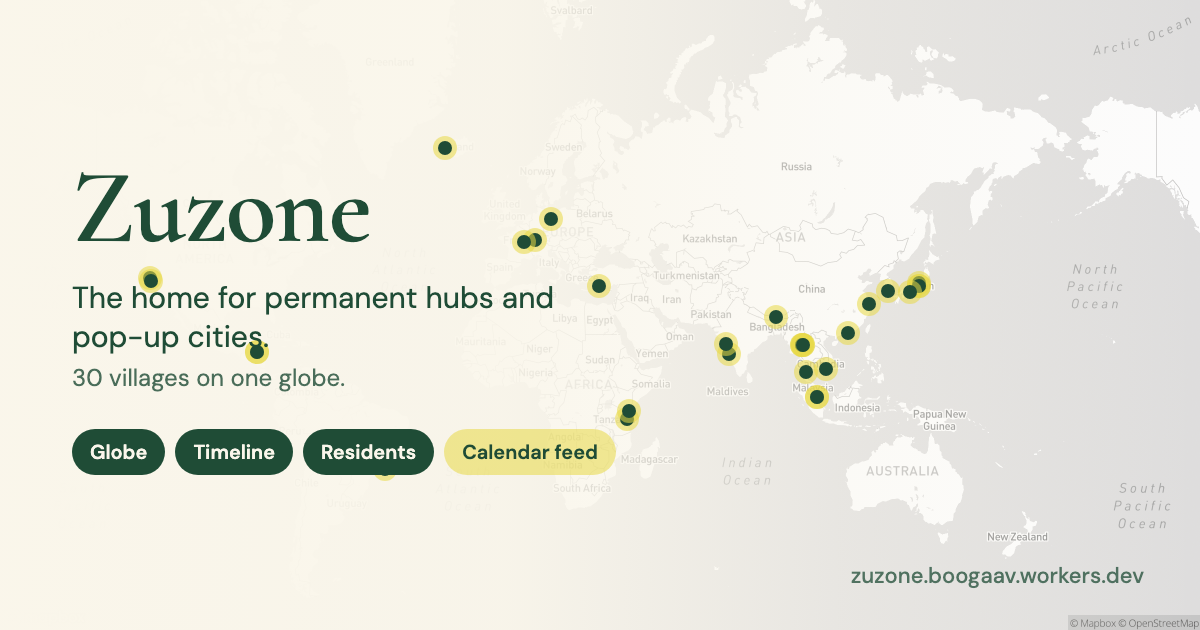
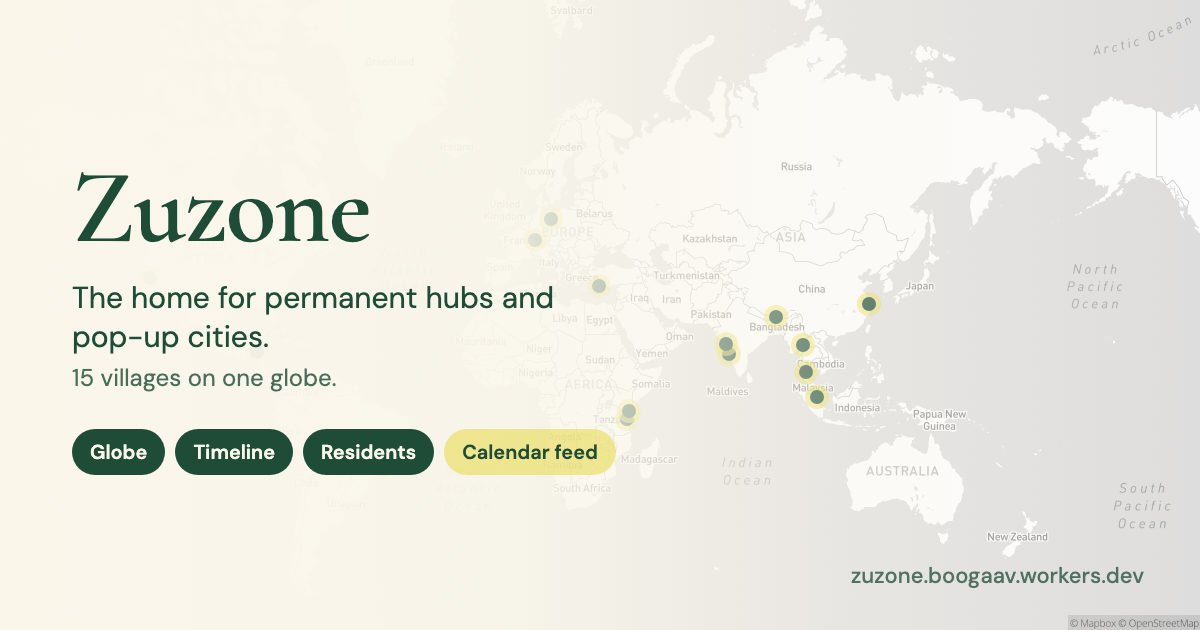
Curate the directory: hide villages not on the owner's list
- migration 20260914120000: villages.hidden (default false); 15 villages stay public,
  15 are hidden, none deleted
- useVillages drops hidden rows, so the map, Gantt, list and village pages follow
- a hidden or unknown village URL now redirects home instead of silently showing
  whichever village loaded first
- worker fetchVillages drops hidden rows: /api/villages.json, /calendar.ics, OG tags
- ZuThread filters the stored feed on every read (no paid refresh needed) and
  re-attributes shared handles, e.g. The Mu's posts now credit muShanghai
- Why Zuzalu timeline links only to villages that are still public
- scripts/og-card/build.mjs: share card generator now lives in the repo, reads the
  visible villages, keeps pins under the veil, and refuses to overwrite og.png with a
  failed render

diff --git a/src/components/why/DossierSection.tsx b/src/components/why/DossierSection.tsx
@@ -18,10 +18,11 @@ const KIND_COLOR: Record<string, string> = {
   prelude: "bg-muted-foreground/50",
 };
 
-const Segs = ({ segs }: { segs: TimelineSeg[] }) => (
+/** Village links render only while that village is public; hidden ones read as plain text. */
+const Segs = ({ segs, visibleIds }: { segs: TimelineSeg[]; visibleIds: Set<string> | null }) => (
   <>
     {segs.map((s, i) =>
-      s.href ? (
+      s.href && visibleIds?.has(s.href.replace(/^\//, "")) ? (
         <Link key={i} to={s.href} className="font-medium text-primary underline-offset-2 hover:underline" title="Open on the Zuzone map">{s.t}</Link>
       ) : (
         <span key={i}>{s.t}</span>
@@ -89,7 +90,7 @@ const Chapter = ({ ch, onOpen }: { ch: DossierChapter; onOpen: (p: DossierPhoto)
   </section>
 );
 
-export const DossierSection = () => {
+export const DossierSection = ({ visibleIds = null }: { visibleIds?: Set<string> | null }) => {
   const [open, setOpen] = useState<DossierPhoto | null>(null);
   return (
     <div id="dossier" className="scroll-mt-20">
@@ -127,7 +128,7 @@ export const DossierSection = () => {
                   <span className={`mt-1 h-3 w-[3px] shrink-0 rounded ${KIND_COLOR[r.kind] || "bg-muted-foreground/50"}`} />
                   {r.when}
                 </span>
-                <span className={`col-span-2 text-sm leading-relaxed sm:col-span-1 ${["montenegro", "istanbul", "chiangmai"].includes(r.kind) ? "font-medium" : ""}`}><Segs segs={r.what} /></span>
+                <span className={`col-span-2 text-sm leading-relaxed sm:col-span-1 ${["montenegro", "istanbul", "chiangmai"].includes(r.kind) ? "font-medium" : ""}`}><Segs segs={r.what} visibleIds={visibleIds} /></span>
               </li>
             ))}
           </ol>

diff --git a/src/pages/WhyZuzalu.tsx b/src/pages/WhyZuzalu.tsx
@@ -269,12 +269,13 @@ const Quote = ({ q, ctx }: { q: string; ctx: string }) => (
 
 const WhyZuzalu = () => {
   const [villageCount, setVillageCount] = useState<number | null>(null);
+  const [visibleIds, setVisibleIds] = useState<Set<string> | null>(null);
   useEffect(() => {
     document.title = "Why Zuzalu — Zuzone";
     const target = window.location.hash ? document.querySelector(window.location.hash) : null;
     if (target) setTimeout(() => target.scrollIntoView({ behavior: "auto" }), 50);
     else window.scrollTo(0, 0);
-    fetch(`${PUBLIC_SITE_URL}/api/villages.json`).then((r) => r.json()).then((d) => setVillageCount(d.count)).catch(() => {});
+    fetch(`${PUBLIC_SITE_URL}/api/villages.json`).then((r) => r.json()).then((d) => { setVillageCount(d.count); setVisibleIds(new Set(d.villages.map((v: { id: string }) => v.id))); }).catch(() => {});
     return () => { document.title = "Zuzone"; };
   }, []);
   const mapUrl = useMemo(tribeMapUrl, []);
@@ -380,7 +381,7 @@ const WhyZuzalu = () => {
         <div className="mt-4"><Quote q="Would 'Zuzaluism' meet the same fate?" ctx="on movements that grow fast and then plateau as niches" /></div>
       </Section>
 
-      <DossierSection />
+      <DossierSection visibleIds={visibleIds} />
 
       <section className="border-t border-border bg-card/60">
         <div className="mx-auto max-w-3xl px-4 py-12 sm:py-16">

diff --git a/src/components/InteractiveMap.tsx b/src/components/InteractiveMap.tsx
@@ -125,10 +125,13 @@ export const InteractiveMap = ({ mapboxToken, initialVillageId, initialCategory 
           setActiveVillage(targetVillage);
           return;
         }
+        // Hidden or unknown village: don't show a different village under this URL
+        navigate("/", { replace: true });
+        return;
       }
       setActiveVillage(villages[0]);
     }
-  }, [villages, activeVillage, initialVillageId]);
+  }, [villages, activeVillage, initialVillageId, navigate]);
 
   // Fly to active village when map is ready (for village-specific routes)
   useEffect(() => {

diff --git a/src/hooks/useVillages.ts b/src/hooks/useVillages.ts
@@ -59,8 +59,8 @@ export const useVillages = () => {
       if (error) throw error;
 
       const mappedVillages: Village[] = (data || [])
-        // Rows whose id starts with "_" are test/scratch entries, never shown publicly
-        .filter((v: any) => !String(v.id).startsWith("_"))
+        // Hidden rows (curated out) and "_" scratch rows are never shown publicly
+        .filter((v: any) => !v.hidden && !String(v.id).startsWith("_"))
         .map((v: any) => ({
         ...v,
         center: v.center as [number, number],

diff --git a/README.md b/README.md
@@ -57,6 +57,7 @@ row-level security is designed around. There is no secret to obtain to run the a
 | `npm run lint` | ESLint |
 | `npm run deploy` | `vite build` + `wrangler deploy` (needs Cloudflare access) |
 | `node scripts/zuthread-refresh.mjs` | Rebuild `public/zuthread.json` locally via the monid CLI |
+| `node scripts/og-card/build.mjs` | Regenerate the social share image from the visible villages |
 
 ## Layout
 
@@ -93,6 +94,9 @@ Secrets live in Cloudflare and Supabase, never in the repo:
 - **`zuzone.lovable.app`** still exists and points at the *old* Lovable backend. Ignore it.
 - **Lovable created some tables outside migrations.** `comments` and `villages.landing_blocks`
   were captured retroactively; if you add a column through a GUI, write the migration too.
+- **The directory is curated.** `villages.hidden = true` removes a village from the map, timeline,
+  calendar, APIs and ZuThread without deleting it. Unhide with
+  `UPDATE villages SET hidden = false WHERE id = '<id>';`, then rerun the share-card script.
 - **ZuThread costs money.** Free X timeline sources are all dead; refreshes go through monid at
   roughly $0.0015 per account, so the refresh path is rate limited in the Worker.
 
